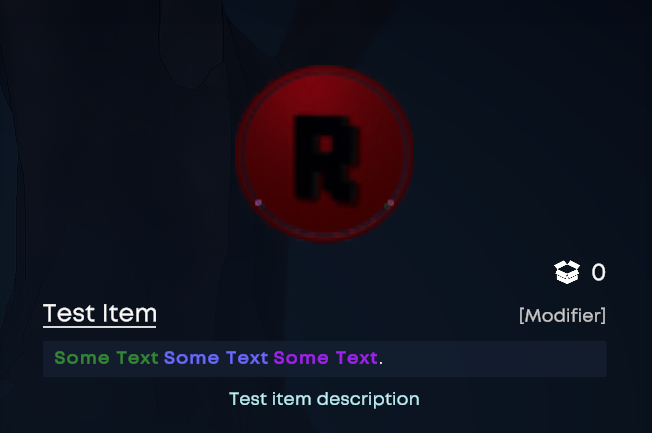
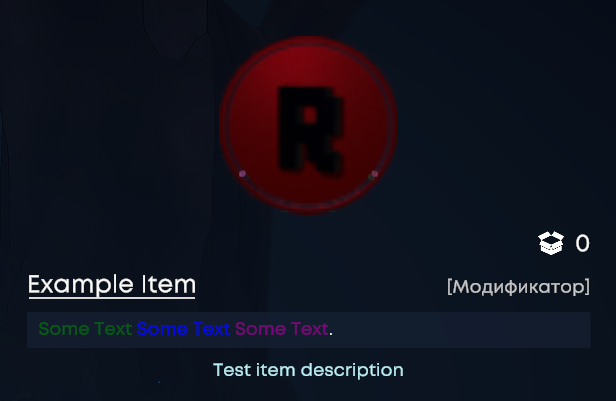
v2.0.0 - added 146 colors

diff --git a/Plugin.cs b/Plugin.cs
@@ -1,68 +1,174 @@
-using System.Globalization;
-using BepInEx;
-using BepInEx.Logging;
-using GKAPI;
-using GKAPI.Lang;
+using System;
 
 namespace ColorLib;
 
-[BepInPlugin(PluginGuid, PluginName, PluginVersion)]
-[BepInDependency(GKAPI.Plugin.PluginGuid)]
-public class Plugin : GkPlugin
+public static class TextColor
 {
-    public const string PluginGuid = "ua.quest_play.СolorLib";
-    public const string PluginName = "ColorLib";
-    private const string PluginVersion = "1.0.0";
+    // Red Colors
+    public static readonly String Red = "#ff0000";
+    public static readonly String IndianRed = "#cd5c5c";
+    public static readonly String LightCoral = "#f08080";
+    public static readonly String Salmon = "#fa8072";
+    public static readonly String DarkSalmon = "#e9967a";
+    public static readonly String LightSalmon = "#ffa07a";
+    public static readonly String Crimson = "#dc143c";
+    public static readonly String FireBrick = "#b22222";
+    public static readonly String DarkRed = "#8b0000";
 
-    internal new static ManualLogSource Log;
+    // Pink Colors
+    public static readonly String Pink = "#FFC0CB";
+    public static readonly String LightPink = "#FFB6C1";
+    public static readonly String HotPink = "#FF69B4";
+    public static readonly String DeepPink = "#FF1493";
+    public static readonly String MediumVioletRed = "#C71585";
+    public static readonly String PaleVioletRed = "#DB7093";
 
-    public override void Load()
-    {
-        base.Load();
-        // Plugin startup logic
-        Log = base.Log;
-        Log.LogInfo($"Plugin {PluginName} is loaded!");
-    }
+    // Orange Colors
+    public static readonly String Orange = "#FFA500";
+    public static readonly String DarkOrange = "#FF8C00";
+    public static readonly String Coral = "#FF7F50";
+    public static readonly String Tomato = "#FF6347";
+    public static readonly String OrangeRed = "#FF4500";
 
-    public override void AddContent()
-    {
+    // Green Colors
+    public static readonly String Green = "#008A00";
+    public static readonly String DarkGreen = "#006400";
+    public static readonly String LightGreen = "#90EE90";
+    public static readonly String PaleGreen = "#98FB98";
+    public static readonly String MediumSeaGreen = "#3CB371";
+    public static readonly String SeaGreen = "#2E8B57";
+    public static readonly String ForestGreen = "#228B22";
+    public static readonly String LimeGreen = "#32CD32";
+    public static readonly String Lime = "#00FF00";
+    public static readonly String SpringGreen = "#00FF7F";
+    public static readonly String MediumSpringGreen = "#00FA9A";
+    public static readonly String LightSeaGreen = "#20B2AA";
+    public static readonly String MediumAquamarine = "#66CDAA";
+    public static readonly String GreenYellow = "#ADFF2F";
+    public static readonly String Chartreuse = "#7FFF00";
+    public static readonly String LawnGreen = "#7CFC00";
+    public static readonly String YellowGreen = "#9ACD32";
+    public static readonly String OliveDrab = "#6B8E23";
+    public static readonly String Olive = "#7D7D00";
+    public static readonly String DarkOliveGreen = "#556B2F";
+    public static readonly String DarkSeaGreen = "#8FBC8F";
+    public static readonly String DarkCyan = "#008B8B";
+    public static readonly String Teal = "#007D7D";
 
-    }
-}
+    // Blue Colors
+    public static readonly String Blue = "#0000FF";
+    public static readonly String MediumBlue = "#0000CD";
+    public static readonly String DarkBlue = "#00008B";
+    public static readonly String LightBlue = "#ADD8E6";
+    public static readonly String SkyBlue = "#87CEEB";
+    public static readonly String DeepSkyBlue = "#00BFFF";
+    public static readonly String DodgerBlue = "#1E90FF";
+    public static readonly String Aqua = "#00FFFF";
+    public static readonly String LightCyan = "#E0FFFF";
+    public static readonly String Cyan = "#00FFFF";
+    public static readonly String PaleTurquoise = "#AFEEEE";
+    public static readonly String Aquamarine = "#7FFFD4";
+    public static readonly String Turquoise = "#40E0D0";
+    public static readonly String MediumTurquoise = "#48D1CC";
+    public static readonly String DarkTurquoise = "#00CED1";
+    public static readonly String CadetBlue = "#5F9EA0";
+    public static readonly String SteelBlue = "#4682B4";
+    public static readonly String LightSteelBlue = "#B0C4DE";
+    public static readonly String PowderBlue = "#B0E0E6";
+    public static readonly String LightSkyBlue = "#87CEFA";
+    public static readonly String CornflowerBlue = "#6495ED";
+    public static readonly String MediumSlateBlue = "#7B68EE";
+    public static readonly String RoyalBlue = "#4169E1";
+    public static readonly String Navy = "#000080";
+    public static readonly String MidnightBlue = "#191970";
 
-public static class ColorLib
-{
-    public static readonly Colors Red = (Colors)0xFF0000;
-    public static readonly Colors Pink = (Colors)0xFFC0CB;
-    public static readonly Colors Orange = (Colors)0xFFA500;
-    public static readonly Colors Green = (Colors)0x008000;
-    public static readonly Colors Blue = (Colors)0x0000FF;
-    public static readonly Colors Yellow = (Colors)0xFFFF00;
-    public static readonly Colors Purple = (Colors)0x800080;
-    public static readonly Colors White = (Colors)0xFFFFFF;
-    public static readonly Colors Brown = (Colors)0xA52A2A;
+    // Yellow colors
+    public static readonly String Yellow = "#FFFF00";
+    public static readonly String LightYellow = "#FFFFE0";
+    public static readonly String LemonChiffon = "#FFFACD";
+    public static readonly String LightGoldenrodYellow = "#FAFAD2";
+    public static readonly String PapayaWhip = "#FFEFD5";
+    public static readonly String Moccasin = "#FFE4B5";
+    public static readonly String PeachPuff = "#FFDAB9";
+    public static readonly String Khaki = "#F0E68C";
+    public static readonly String DarkKhaki = "#BDB76B";
+    public static readonly String Gold = "#FFD700";
+    public static readonly String PaleGoldenrod = "#EEE8AA";
+    public static readonly String LightGoldenrod = "#EEDD82";
+    public static readonly String DarkGoldenrod = "#B8860B";
 
-    // Quickly create color from int hex (0xRRGGBB)
-    public static Colors FromHex(int hex) => (Colors)hex;
+    // Purple Colors
+    public static readonly String Purple = "#800080";
+    public static readonly String Lavender = "#E6E6FA";
+    public static readonly String Thistle = "#D8BFD8";
+    public static readonly String Plum = "#DDA0DD";
+    public static readonly String Violet = "#EE82EE";
+    public static readonly String Orchid = "#DA70D6";
+    public static readonly String Fuchsia = "#FF00FF";
+    public static readonly String Magenta = "#FF00FF";
+    public static readonly String MediumOrchid = "#BA55D3";
+    public static readonly String MediumPurple = "#9370DB";
+    public static readonly String BlueViolet = "#8A2BE2";
+    public static readonly String DarkViolet = "#9400D3";
+    public static readonly String DarkOrchid = "#9932CC";
+    public static readonly String DarkMagenta = "#8B008B";
+    public static readonly String Indigo = "#4B0082";
+    public static readonly String SlateBlue = "#6A5ACD";
+    public static readonly String DarkSlateBlue = "#483D8B";
+
+    // White colors
+    public static readonly String White = "#FFFFFF";
+    public static readonly String Snow = "#FFFAFA";
+    public static readonly String Honeydew = "#F0FFF0";
+    public static readonly String MintCream = "#F5FFFA";
+    public static readonly String Azure = "#F0FFFF";
+    public static readonly String AliceBlue = "#F0F8FF";
+    public static readonly String GhostWhite = "#F8F8FF";
+    public static readonly String WhiteSmoke = "#F5F5F5";
+    public static readonly String Seashell = "#FFF5EE";
+    public static readonly String Beige = "#F5F5DC";
+    public static readonly String OldLace = "#FDF5E6";
+    public static readonly String FloralWhite = "#FFFAF0";
+    public static readonly String Ivory = "#FFFFF0";
+    public static readonly String AntiqueWhite = "#FAEBD7";
+    public static readonly String Linen = "#FAF0E6";
+    public static readonly String LavenderBlush = "#FFF0F5";
+    public static readonly String MistyRose = "#FFE4E1";
+
+    // Brown Colors
+    public static readonly String Brown = "#A52A2A";
+    public static readonly String DarkBrown = "#654321";
+    public static readonly String Cornsilk = "#FFF8DC";
+    public static readonly String BlanchedAlmond = "#FFEBCD";
+    public static readonly String Bisque = "#FFE4C4";
+    public static readonly String NavajoWhite = "#FFDEAD";
+    public static readonly String Wheat = "#F5DEB3";
+    public static readonly String Burlywood = "#DEB887";
+    public static readonly String Tan = "#D2B48C";
+    public static readonly String RosyBrown = "#BC8F8F";
+    public static readonly String SandyBrown = "#F4A460";
+    public static readonly String Goldenrod = "#DAA520";
+    public static readonly String DarkGoldenRod = "#B8860B";
+    public static readonly String Peru = "#CD853F";
+    public static readonly String Chocolate = "#D2691E";
+    public static readonly String SaddleBrown = "#8B4513";
+    public static readonly String Sienna = "#A0522D";
+    public static readonly String Maroon = "#800000";
+
+    // Gray Colors
+    public static readonly String Gray = "#808080";
+    public static readonly String DimGray = "#696969";
+    public static readonly String LightGray = "#D3D3D3";
+    public static readonly String Gainsboro = "#DCDCDC";
+    public static readonly String DarkGray = "#A9A9A9";
+    public static readonly String Silver = "#C0C0C0";
+    public static readonly String LightSlateGray = "#778899";
+    public static readonly String SlateGray = "#708090";
+    public static readonly String DarkSlateGray = "#2F4F4F";
+
+    // Quickly create color from int hex (RRGGBB)
+    public static String FromHex(String hex) => $"#{hex}";
 
     // Quickly create color from RGB components
-    public static Colors FromRgb(byte r, byte g, byte b)
-        => (Colors)((r << 16) | (g << 8) | b);
-
-    // Try to parse HEX strings like "#RRGGBB" or "RRGGBB"
-    public static bool TryFromHexString(string hexString, out Colors color)
-    {
-        color = default;
-        if (string.IsNullOrWhiteSpace(hexString)) return false;
-
-        var s = hexString.Trim();
-        if (s.StartsWith("#")) s = s.Substring(1);
-        if (int.TryParse(s, NumberStyles.HexNumber, CultureInfo.InvariantCulture, out var v))
-        {
-            color = (Colors)v;
-            return true;
-        }
-
-        return false;
-    }
+    public static String FromRgb(byte r, byte g, byte b) => $"#{r:X2}{g:X2}{b:X2}";
 }

diff --git a/README.md b/README.md
@@ -23,22 +23,80 @@ A library that allows you to use HEX and RGB colors in mods. Also has built-in c
 # Examples of use
 
 ```csharp
-using Gatekeeper.Items;
-using GKAPI.Items;
-using GKAPI.Lang;
-
-using static ColorLib.ColorLib; // ColorLib - colors
-
 namespace ColorLib.Example
 {
-    public static class ItemRegister
+    public static class Example
     {
-        private static object itemAPI;
 
         public static void RegisterItems(ItemAPI itemAPI)
         {
 
-            var testItem = itemAPI.AddItem(new GkItem.Builder("Test Item", "Test item description", $"{ColorHelper.WrapInColor("Some Text", DarkGreen)} {ColorHelper.WrapInColor("Some Text", Blue)} {ColorHelper.WrapInColor("Some Text", Purple) }.") // {ColorHelper.WrapInColor("Any Text", COLOR FROM COLORLIB)}
+            var testItem = itemAPI.AddItem(new GkItem.Builder("Test Item", "Test item description", $"<color={TextColor.DarkGreen}>Some Text</color> <color={TextColor.Blue}>Some Text</color> <color={TextColor.Purple}>Some Text</color>.")
+            .SetUnlocked(true)
+            .SetHidden(false)
+            .AsModifier()
+            );
+        }
+    }
+}
+```
+
+```csharp
+using GKAPI.Items;
+using static ColorLib.TextColor; // No need to use TextColor.<COLOR> before each color
+
+namespace ColorLib.Example
+{
+    public static class Example
+    {
+
+        public static void RegisterItems(ItemAPI itemAPI)
+        {
+
+            var testItem = itemAPI.AddItem(new GkItem.Builder("Test Item", "Test item description", $"<color={Brown}>Some Text</color> <color={Navy}>Some Text</color> <color={Magenta}>Some Text</color>.")
+            .SetUnlocked(true)
+            .SetHidden(false)
+            .AsModifier()
+            );
+        }
+    }
+}
+```
+
+```csharp
+
+using GKAPI.Items;
+
+namespace ColorLib.Example
+{
+    public static class Example
+    {
+
+        public static void RegisterItems(ItemAPI itemAPI)
+        {
+
+            var testItem = itemAPI.AddItem(new GkItem.Builder("Test Item", "Test item description", $"<color={TextColor.FromRgb(199, 21, 133)}>Some Text</color> <color={TextColor.FromRgb(255, 99, 71)}>Some Text</color> <color={TextColor.FromRgb(225, 215, 0)}>Some Text</color>.")
+            .SetUnlocked(true)
+            .SetHidden(false)
+            .AsModifier()
+            );
+        }
+    }
+}
+```
+### Or without using the library
+```csharp
+using GKAPI.Items;
+
+namespace ColorLib.Example
+{
+    public static class Example
+    {
+
+        public static void RegisterItems(ItemAPI itemAPI)
+        {
+
+            var testItem = itemAPI.AddItem(new GkItem.Builder("Test Item", "Test item description", "<color=#4B0082>Some Text</color> <color=#800000>Some Text</color> <color=#000000>Some Text</color>.")
             .SetUnlocked(true)
             .SetHidden(false)
             .AsModifier()
@@ -51,3 +109,6 @@ namespace ColorLib.Example
 ### Result
 
 ![result](https://raw.githubusercontent.com/Quest-play/ColorLib/main/docs/example.png)
+![result1](https://raw.githubusercontent.com/Quest-play/ColorLib/main/docs/example1.png)
+![result2](https://raw.githubusercontent.com/Quest-play/ColorLib/main/docs/example2.png)
+![result3](https://raw.githubusercontent.com/Quest-play/ColorLib/main/docs/example3.png)
